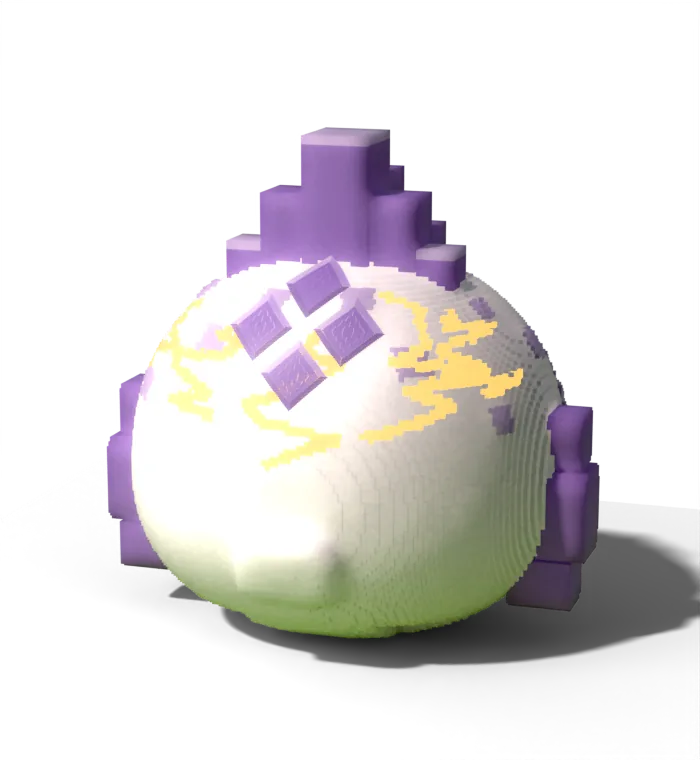
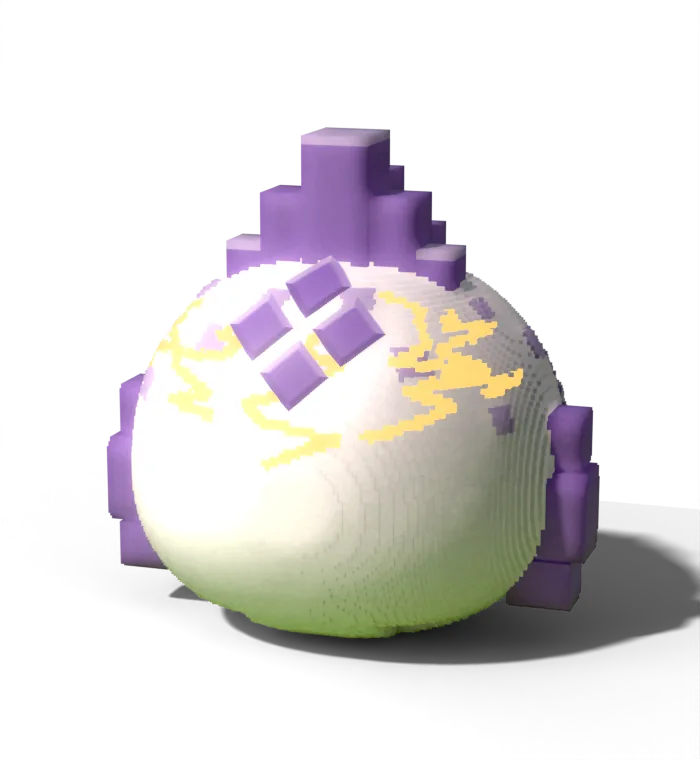
The ultimate button fires the ultimate (the pad's press never reached the raid: only the recorder pressed it directly); eggs re-rendered without the muzzle (22 of 24 hatch sprites; cine_repack.py grades and packs a few plates into cine.json without repacking the set)
Claude-Session: https://claude.ai/code/session_01HANmFDddYbzo6K9KzGZmoK

diff --git a/flutter/lib/features/wilds/wilds_screen.dart b/flutter/lib/features/wilds/wilds_screen.dart
@@ -1190,6 +1190,10 @@ class _WildsScreenState extends State<WildsScreen> with SingleTickerProviderStat
         _input.pulse = true;
       case 'dodge':
         _input.dodge = true;
+      case 'signature':
+        // an Elder's ultimate: straight into the raid's buffer (it fires as soon as the current move lets it; the
+        // raid ignores it until it's charged)
+        _raid!.press('signature');
       case 'item':
         _eat();
     }

diff --git a/tools/art/cine_repack.py b/tools/art/cine_repack.py
@@ -1,0 +1,51 @@
+"""Grade and pack a few re-rendered cinematic plates without touching the rest (cine_assets.py packs the whole set
+and rewrites cine.json): each pack's raw frame and depth from the PC (render_cine_pc.py) are graded as
+cine_blender.py does, sized as cine_assets.py does, and their entries merged into cine.json.
+
+    python3 cine_repack.py RAW_DIR PACK_DIR ../../flutter/assets/art/cine egg_coral_0 nest_egg_coral ...
+"""
+from __future__ import annotations
+
+import json
+import os
+import sys
+
+from PIL import Image
+
+HERE = os.path.dirname(os.path.abspath(__file__))
+sys.path.insert(0, HERE)
+
+import cine_assets as CA    # noqa: E402
+import cine_blender as CB   # noqa: E402
+import cine_pack            # noqa: E402
+
+
+def repack(raw_dir, pack_dir, out_dir, names, quality=82):
+    cj = os.path.join(out_dir, 'cine.json')
+    meta_out = json.load(open(cj))
+    for n in names:
+        vs = cine_pack.unpack(os.path.join(pack_dir, n + '.npz'))
+        graded = os.path.join(raw_dir, n + '.png')
+        CB.finish(vs, os.path.join(raw_dir, n + '_raw.png'), graded, os.path.join(raw_dir, n + '_z.exr'))
+        im = Image.open(graded)
+        cap = 900 if n.startswith(('egg_', 'nest_egg_', 'elder_')) else CA.PLATE_MAX.get(n, 1200)
+        k = min(1.0, cap / max(im.width, im.height))
+        if k < 1.0:
+            im = im.resize((round(im.width * k), round(im.height * k)), Image.LANCZOS)
+        path = os.path.join(out_dir, n + '.webp')
+        if im.mode == 'RGBA':
+            im.save(path, 'WEBP', quality=quality, method=6, exact=False)
+        else:
+            im.convert('RGB').save(path, 'WEBP', quality=quality, method=6)
+        m = json.load(open(os.path.join(raw_dir, n + '_meta.json')))
+        kk = im.width / m['w']
+        meta_out[n] = {'w': im.width, 'h': im.height,
+                       'anchors': {a: [round(v[0] * kk, 1), round(v[1] * kk, 1)] for a, v in m.get('anchors', {}).items()},
+                       'lines': {a: [[round(p[0] * kk, 1), round(p[1] * kk, 1)] for p in pts] for a, pts in m.get('lines', {}).items()},
+                       'scale': 1.0}
+        print('%-20s %dx%d %.0f KB' % (n, im.width, im.height, os.path.getsize(path) / 1024), flush=True)
+    json.dump(meta_out, open(cj, 'w'), indent=1)
+
+
+if __name__ == '__main__':
+    repack(sys.argv[1], sys.argv[2], sys.argv[3], sys.argv[4:])
